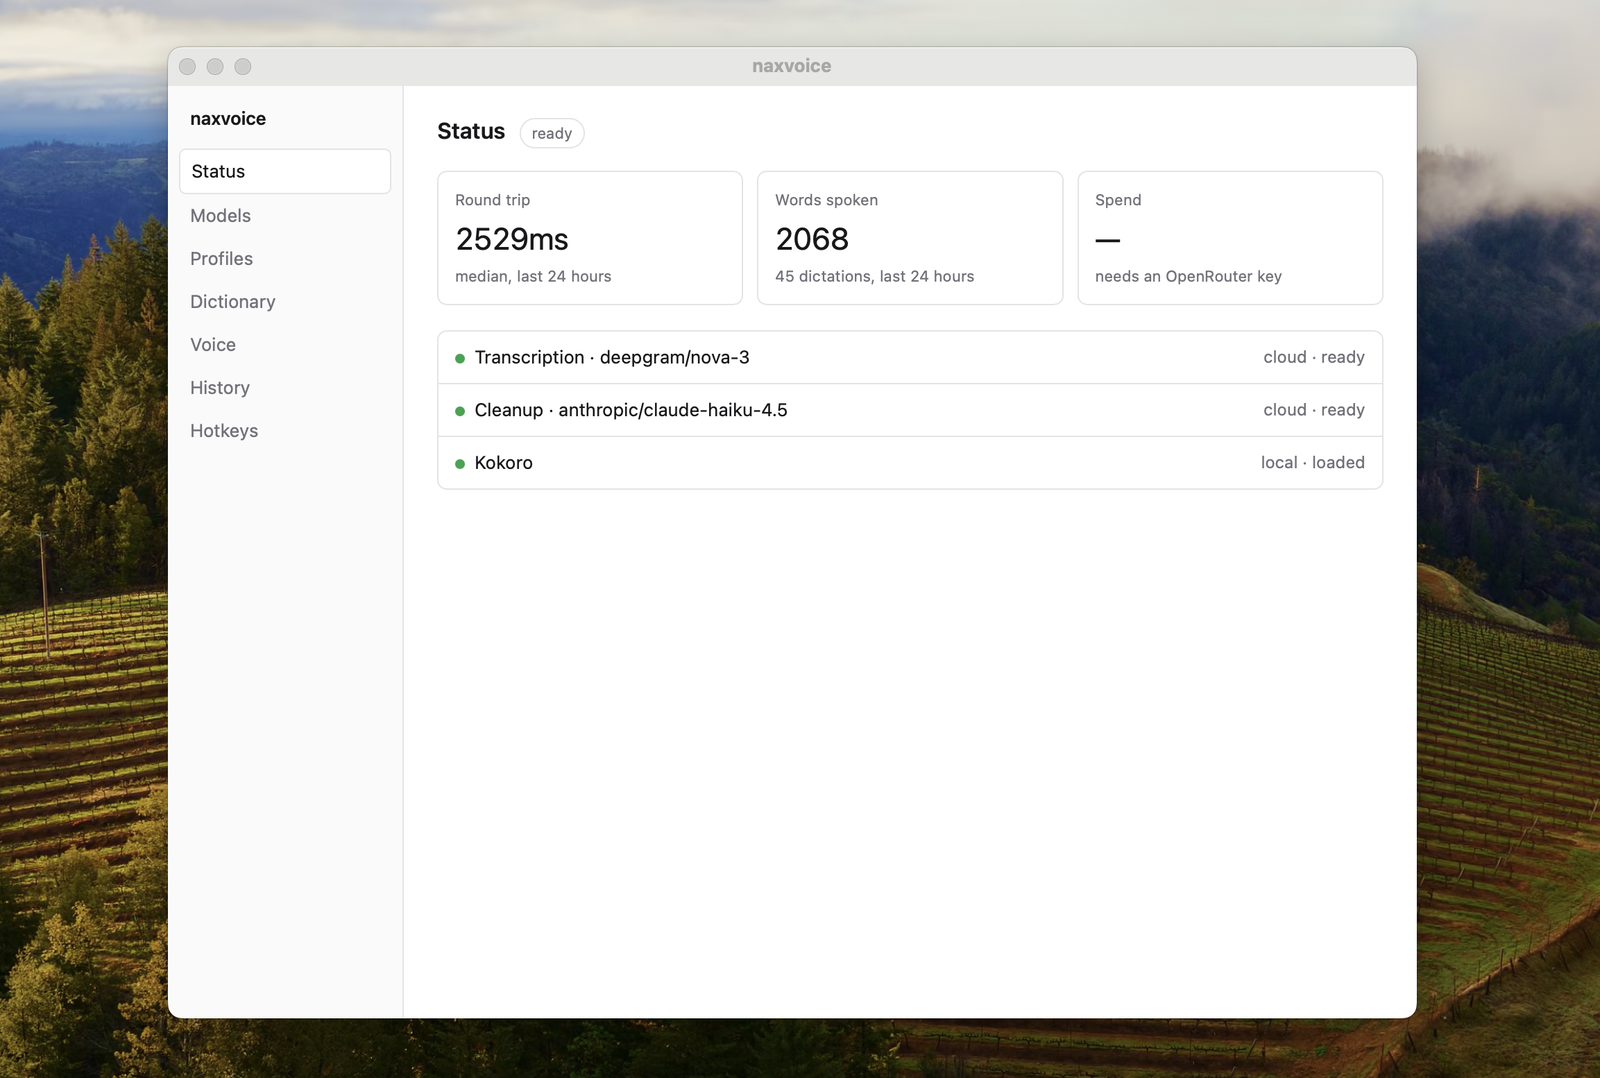
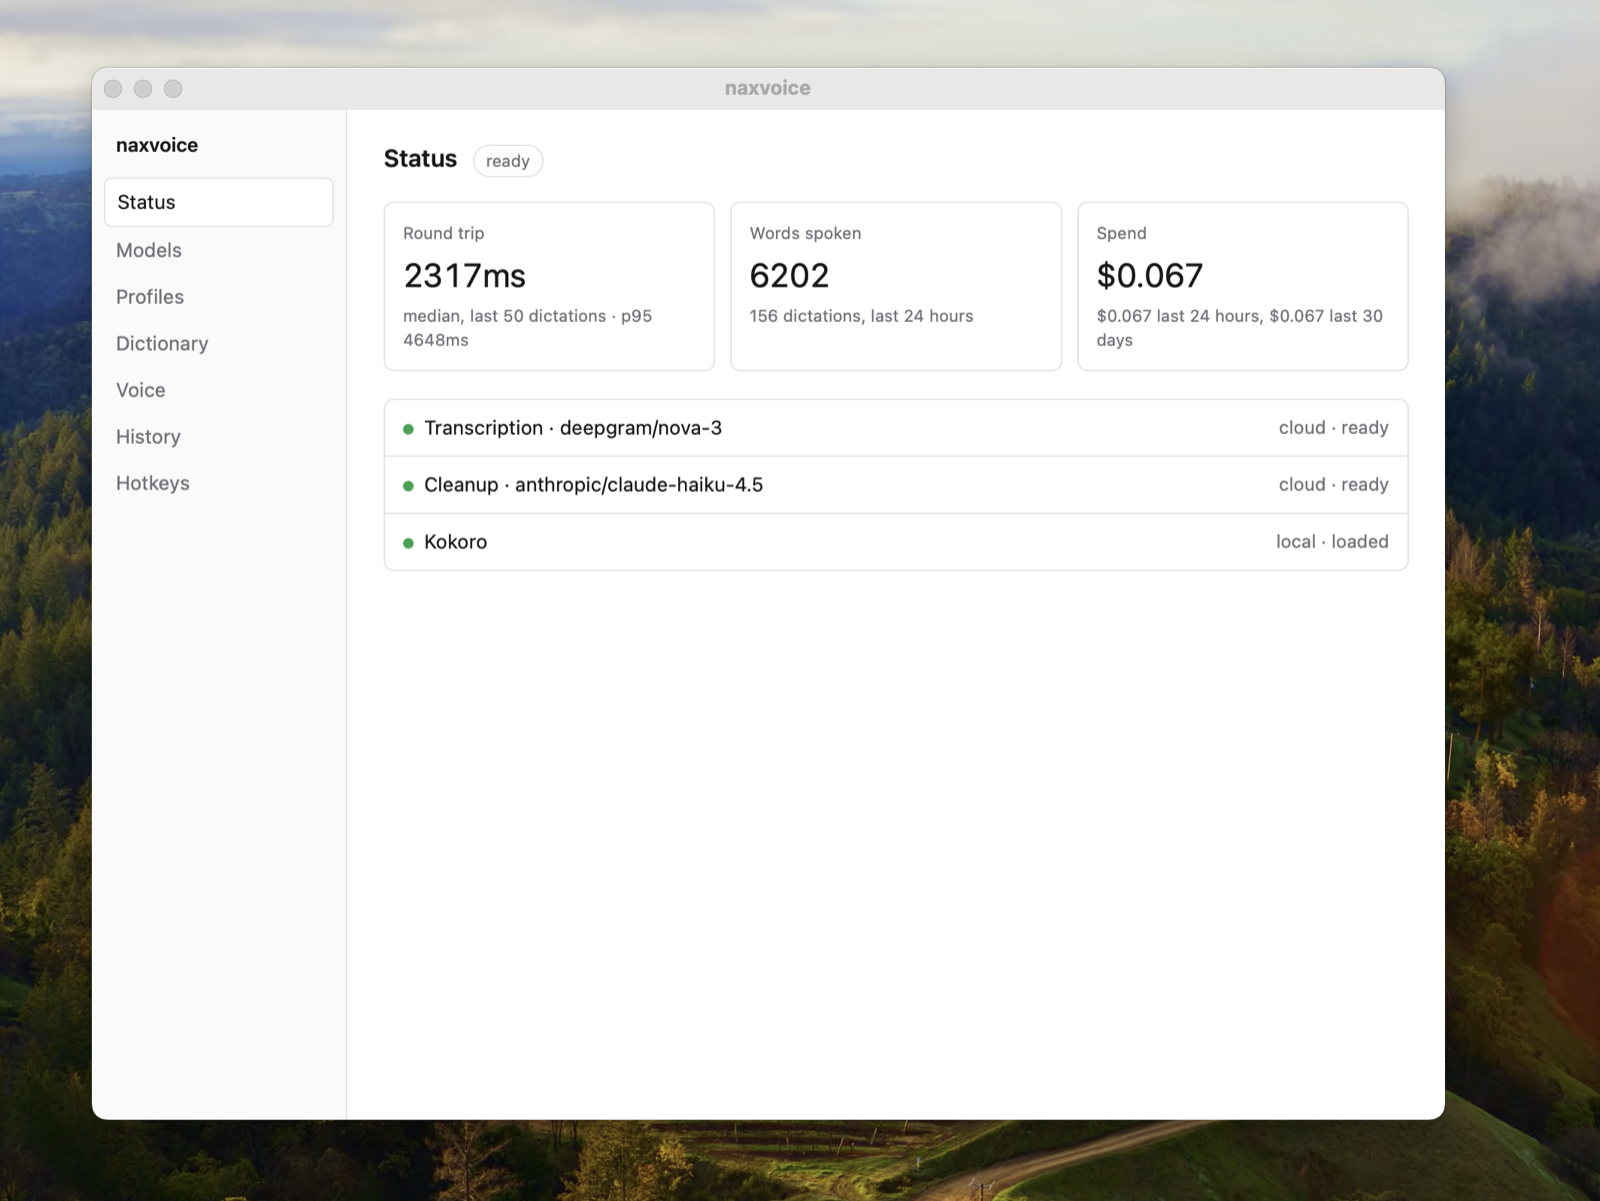
Final polish: fresh screenshots, accurate hotkey text, precise signing wording
UI TEXT

Hotkeys offered three keys while the help text said "only the two Command
keys". The count was hardcoded beside a list it never read, so it went stale
the moment Right Option was added. It is now derived from the KEYS array and
prints "3 keys are offered: Right Command, Left Command, Right Option", which
cannot drift again.

The Models key label said "stored in the environment", which read like a filing
error for a configuration that works fine. It now says "read from your
environment" or "saved in your keychain". The label was not really the problem:
the hint beneath it opened "The key is stored in the OS keychain", flatly
contradicting the label above whenever the key came from .env. A screen that
asserts one thing and displays another reads as a warning however the label is
worded. It now explains that either source works, which takes precedence, and
that neither reaches config.yaml. A line appears only in the environment case,
because the Remove button renders only for keychain keys and the app cannot
edit anyone's .env, so the screen previously complained about a mismatch it
gave no way to resolve.

Voice and the Status spend tile needed nothing: both were fixed earlier and
only looked wrong in screenshots taken from an older build.

SCREENSHOTS

docs/status.png and docs/voice.png retaken on the current build. Status now
shows what it is supposed to: 2317ms median over the last 50 dictations with a
[…]

diff --git a/src/screens/Models.jsx b/src/screens/Models.jsx
@@ -71,7 +71,10 @@ export default function Models() {
             {key?.present ? (
               <span className="meta">
                 {" "}
-                · stored {key.source === "environment" ? "in the environment" : "in the keychain"}{" "}
+                {/* "stored in the environment" read like a filing error. Both
+                    sources are supported, so the label states which one is in
+                    use rather than implying one of them is a mistake. */}
+                · {key.source === "environment" ? "read from your environment" : "saved in your keychain"}{" "}
                 <span className="mono">{key.hint}</span>
               </span>
             ) : (
@@ -96,11 +99,26 @@ export default function Models() {
         </div>
       </div>
 
+      {/* This used to open "The key is stored in the OS keychain", which
+          contradicted the label above it whenever the key came from the
+          environment. The label was not the problem; a screen that asserts one
+          thing and displays another is what reads as a warning. */}
       <p className="hint">
-        The key is stored in the OS keychain, never in config.yaml. An
-        environment variable still works for development and takes second place
-        to a saved key.
+        Either source works. Saving one here puts it in the OS keychain, where
+        it survives a reboot and takes precedence. An environment variable, or
+        a <span className="mono">.env</span> beside{" "}
+        <span className="mono">config.yaml</span>, is read when no key is saved,
+        which is the quickest way to get going. Neither ever goes into{" "}
+        <span className="mono">config.yaml</span>.
       </p>
+      {key?.present && key.source === "environment" ? (
+        <p className="hint">
+          Yours is coming from the environment right now. Paste it above and
+          save to move it into the keychain; the environment copy then takes
+          second place, and removing it is something only you can do, since the
+          app cannot edit your <span className="mono">.env</span>.
+        </p>
+      ) : null}
 
       <div className="rows" style={{ marginTop: 16 }}>
         <Select

diff --git a/src/screens/Hotkeys.jsx b/src/screens/Hotkeys.jsx
@@ -98,9 +98,14 @@ export default function Hotkeys() {
         </div>
       </div>
 
+      {/* Derived from KEYS rather than written out, because the last version
+          said "only the two Command keys" and stayed that way after Right
+          Option was added. A count beside a list it does not read is a
+          sentence waiting to go stale. */}
       <p className="hint">
-        Only the two Command keys are offered. They are the only keycodes
-        verified against a real table, and a wrong one produces a key that
+        {KEYS.length} keys are offered: {KEYS.map((k) => k.label).join(", ")}.
+        Each keycode is checked against Apple's Events.h and tao's own table
+        before it appears here, because a wrong one produces a key that
         silently never fires.
       </p>
       <p className="hint">

diff --git a/README.md b/README.md
@@ -20,9 +20,11 @@ Dictation into TextEdit, at real speed. The recording has no sound.
 
 **[Latest release](https://github.com/nancyonyekanna/naxvoice/releases/latest)**
 
-macOS will block it the first time, because the app is signed but not notarised.
-Open System Settings, go to Privacy and Security, scroll to the message about
-naxvoice, and click Open Anyway.
+macOS will block it the first time. The app is signed, but with an ad-hoc
+signature rather than an Apple Developer ID, and only a Developer ID signature
+can be notarised. Gatekeeper treats anything else as unverified, whoever wrote
+it. Open System Settings, go to Privacy and Security, scroll to the message
+about naxvoice, and click Open Anyway.
 
 ## Requirements
 
@@ -145,10 +147,7 @@ nothing writes it today.
 
 ### Download the app
 
-Take the disk image from the [latest release](https://github.com/nancyonyekanna/naxvoice/releases/latest),
-drag naxvoice to Applications, and open it. macOS blocks it the first time, so
-allow it in System Settings under Privacy and Security, then follow the setup
-screen inside the app.
+See [Download](#download) above.
 
 **Apple Silicon only.** No Intel or universal build has been produced or tested,
 so this says nothing about whether one would work.
@@ -209,7 +208,7 @@ something working end to end before making it fast.
 
 macOS needs two permissions, and they are **separate grants**: Input Monitoring
 decides whether the dictation key fires at all, Accessibility decides whether the
-text can be pasted. Neither is prompted for, you add naxvoice to both lists by
+text can be pasted. Neither is prompted for, so you add naxvoice to both lists by
 hand, and both are only read at launch. The setup screen inside the app walks you
 through both, and INSTALL.md says what each failure looks like.
 

diff --git a/INSTALL.md b/INSTALL.md
@@ -135,5 +135,7 @@ and does not reproduce. Machine load is the leading suspect: the same
 measurement on a Mac deep into swap came back twenty to forty times worse. See
 the note at the top of `tts/kokoro.rs`.
 
-**Gatekeeper refuses to open it.** The app is ad-hoc signed, not notarised.
+**Gatekeeper refuses to open it.** The app is signed, but with an ad-hoc
+signature rather than an Apple Developer ID, and only a Developer ID signature
+can be notarised.
 Right-click → Open, once.
